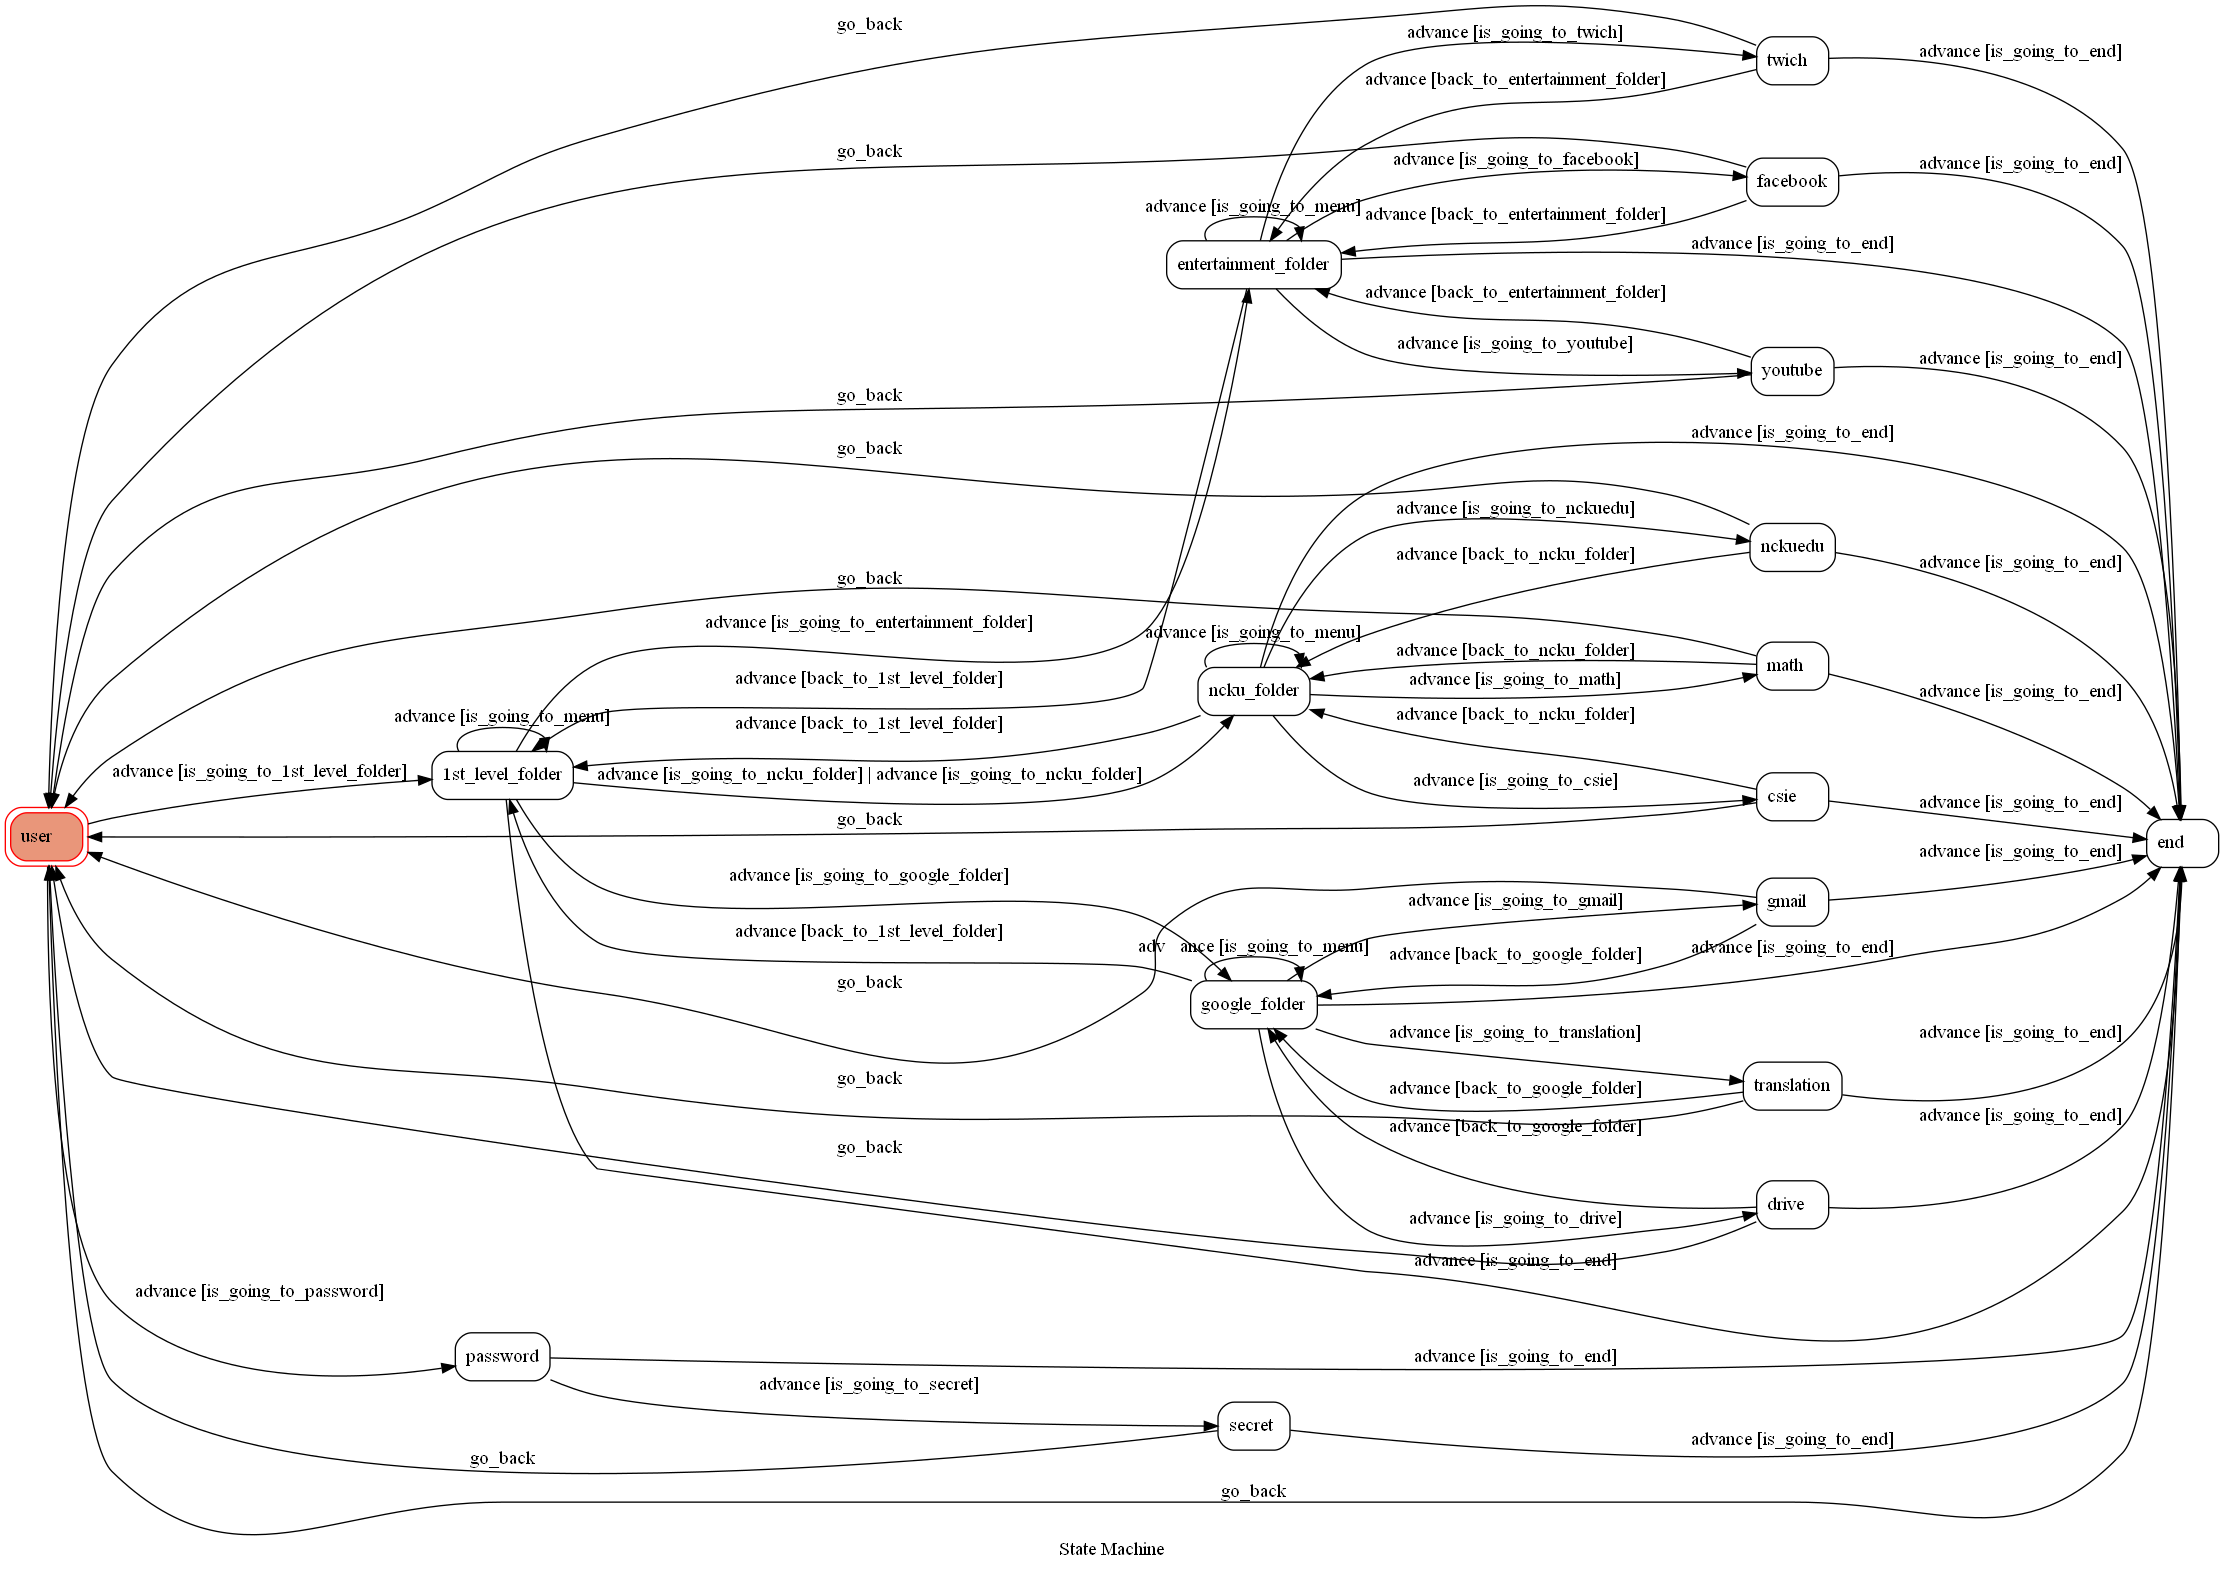
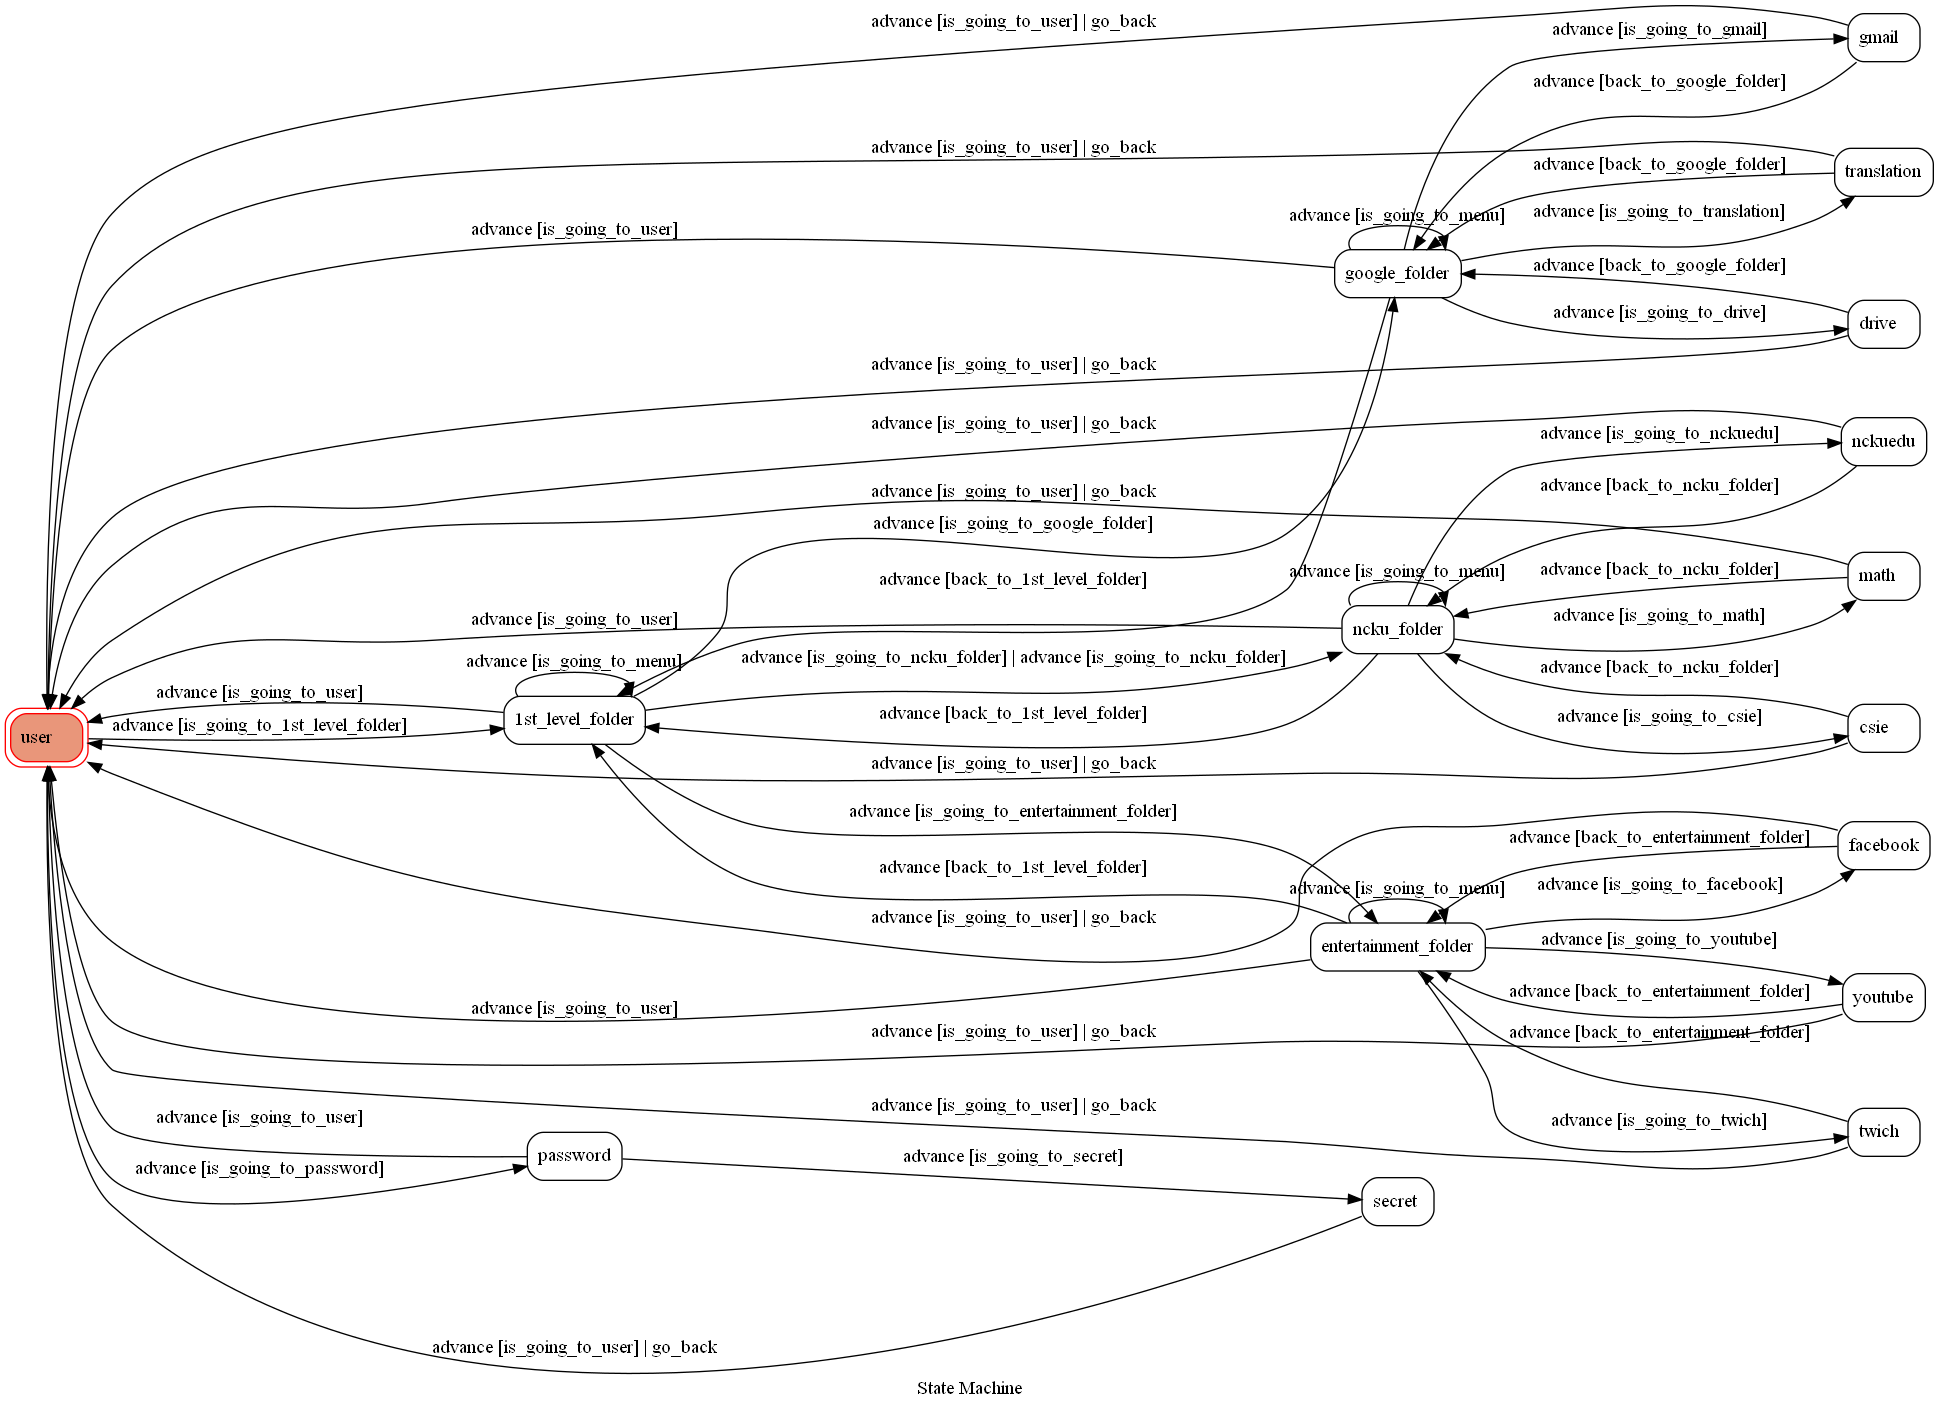
Add files via upload

diff --git a/app.py b/app.py
@@ -14,7 +14,7 @@ from fsm import TocMachine
 load_dotenv()
 
 machine = TocMachine(
-    states=['user','1st_level_folder','password','secret','ncku_folder','math','csie','nckuedu','entertainment_folder','facebook','youtube','twich','google_folder','translation','drive','gmail','end'],
+    states=['user','1st_level_folder','password','secret','ncku_folder','math','csie','nckuedu','entertainment_folder','facebook','youtube','twich','google_folder','translation','drive','gmail'],
     transitions=[{'trigger': 'advance', 'source': 'user', 'dest':'1st_level_folder', 'conditions':'is_going_to_1st_level_folder'},
                  {'trigger': 'advance', 'source': 'user', 'dest':'password', 'conditions':'is_going_to_password'},
                  {'trigger': 'advance', 'source': 'password', 'dest':'secret', 'conditions':'is_going_to_secret'},
@@ -27,7 +27,7 @@ machine = TocMachine(
                  {'trigger': 'advance', 'source': 'entertainment_folder', 'dest':'1st_level_folder', 'conditions':'back_to_1st_level_folder'},
                  {'trigger': 'advance', 'source': '1st_level_folder', 'dest':'google_folder', 'conditions':'is_going_to_google_folder'},
                  {'trigger': 'advance', 'source': 'google_folder', 'dest':'1st_level_folder', 'conditions':'back_to_1st_level_folder'},
-                 {'trigger': 'advance', 'source': ['1st_level_folder','password','secret','ncku_folder','math','csie','nckuedu','entertainment_folder','facebook','youtube','twich','google_folder','translation','drive','gmail'], 'dest':'end', 'conditions':'is_going_to_end'},
+                 {'trigger': 'advance', 'source': ['1st_level_folder','password','secret','ncku_folder','math','csie','nckuedu','entertainment_folder','facebook','youtube','twich','google_folder','translation','drive','gmail'], 'dest':'user', 'conditions':'is_going_to_user'},
 
                  {'trigger': 'advance', 'source': 'ncku_folder', 'dest':'math', 'conditions':'is_going_to_math'},
                  {'trigger': 'advance', 'source': 'math', 'dest':'ncku_folder', 'conditions':'back_to_ncku_folder'},
@@ -50,7 +50,7 @@ machine = TocMachine(
                  {'trigger': 'advance', 'source': 'google_folder', 'dest':'gmail', 'conditions':'is_going_to_gmail'},
                  {'trigger': 'advance', 'source': 'gmail', 'dest':'google_folder', 'conditions':'back_to_google_folder'},
 
-                 {'trigger': 'go_back', 'source': ['math','csie','nckuedu','facebook','youtube','twich','translation','drive','gmail','end','secret',], 'dest':'user',},
+                 {'trigger': 'go_back', 'source': ['math','csie','nckuedu','facebook','youtube','twich','translation','drive','gmail','secret',], 'dest':'user',},
                 
                  {'trigger': 'advance', 'source': '1st_level_folder', 'dest':'1st_level_folder','conditions':'is_going_to_menu'},
                  {'trigger': 'advance', 'source': 'ncku_folder', 'dest':'ncku_folder','conditions':'is_going_to_menu'},
@@ -107,7 +107,7 @@ def webhook_handler():
             elif event.message.text.lower() == 'fsm':
                 #回傳到主機可選擇是否開啟
                 #machine.get_graph().draw('fsm.png', prog='dot')
-                send_image_message(event.reply_token, 'https://8603-218-164-75-168.jp.ngrok.io/show-fsm')
+                send_image_message(event.reply_token, 'https://d45a-27-53-122-68.jp.ngrok.io/show-fsm')
             elif machine.state =='user':
                 send_text_message(event.reply_token, '目前只提供資料夾的功能\n輸入"start"便可開啟資料夾')
             else :

diff --git a/fsm.py b/fsm.py
@@ -50,10 +50,10 @@ class TocMachine(GraphMachine):
         send_button_message(event.reply_token, title, text, btn)
 
     #結束
-    def is_going_to_end(self, event):
+    def is_going_to_user(self, event):
         text = event.message.text
         return text.lower() == '結束'
-    def on_enter_end(self, event):
+    def on_enter_user(self, event):
         send_text_message(event.reply_token, "謝謝您的使用，歡迎你下次的使用")
         self.go_back()
 
